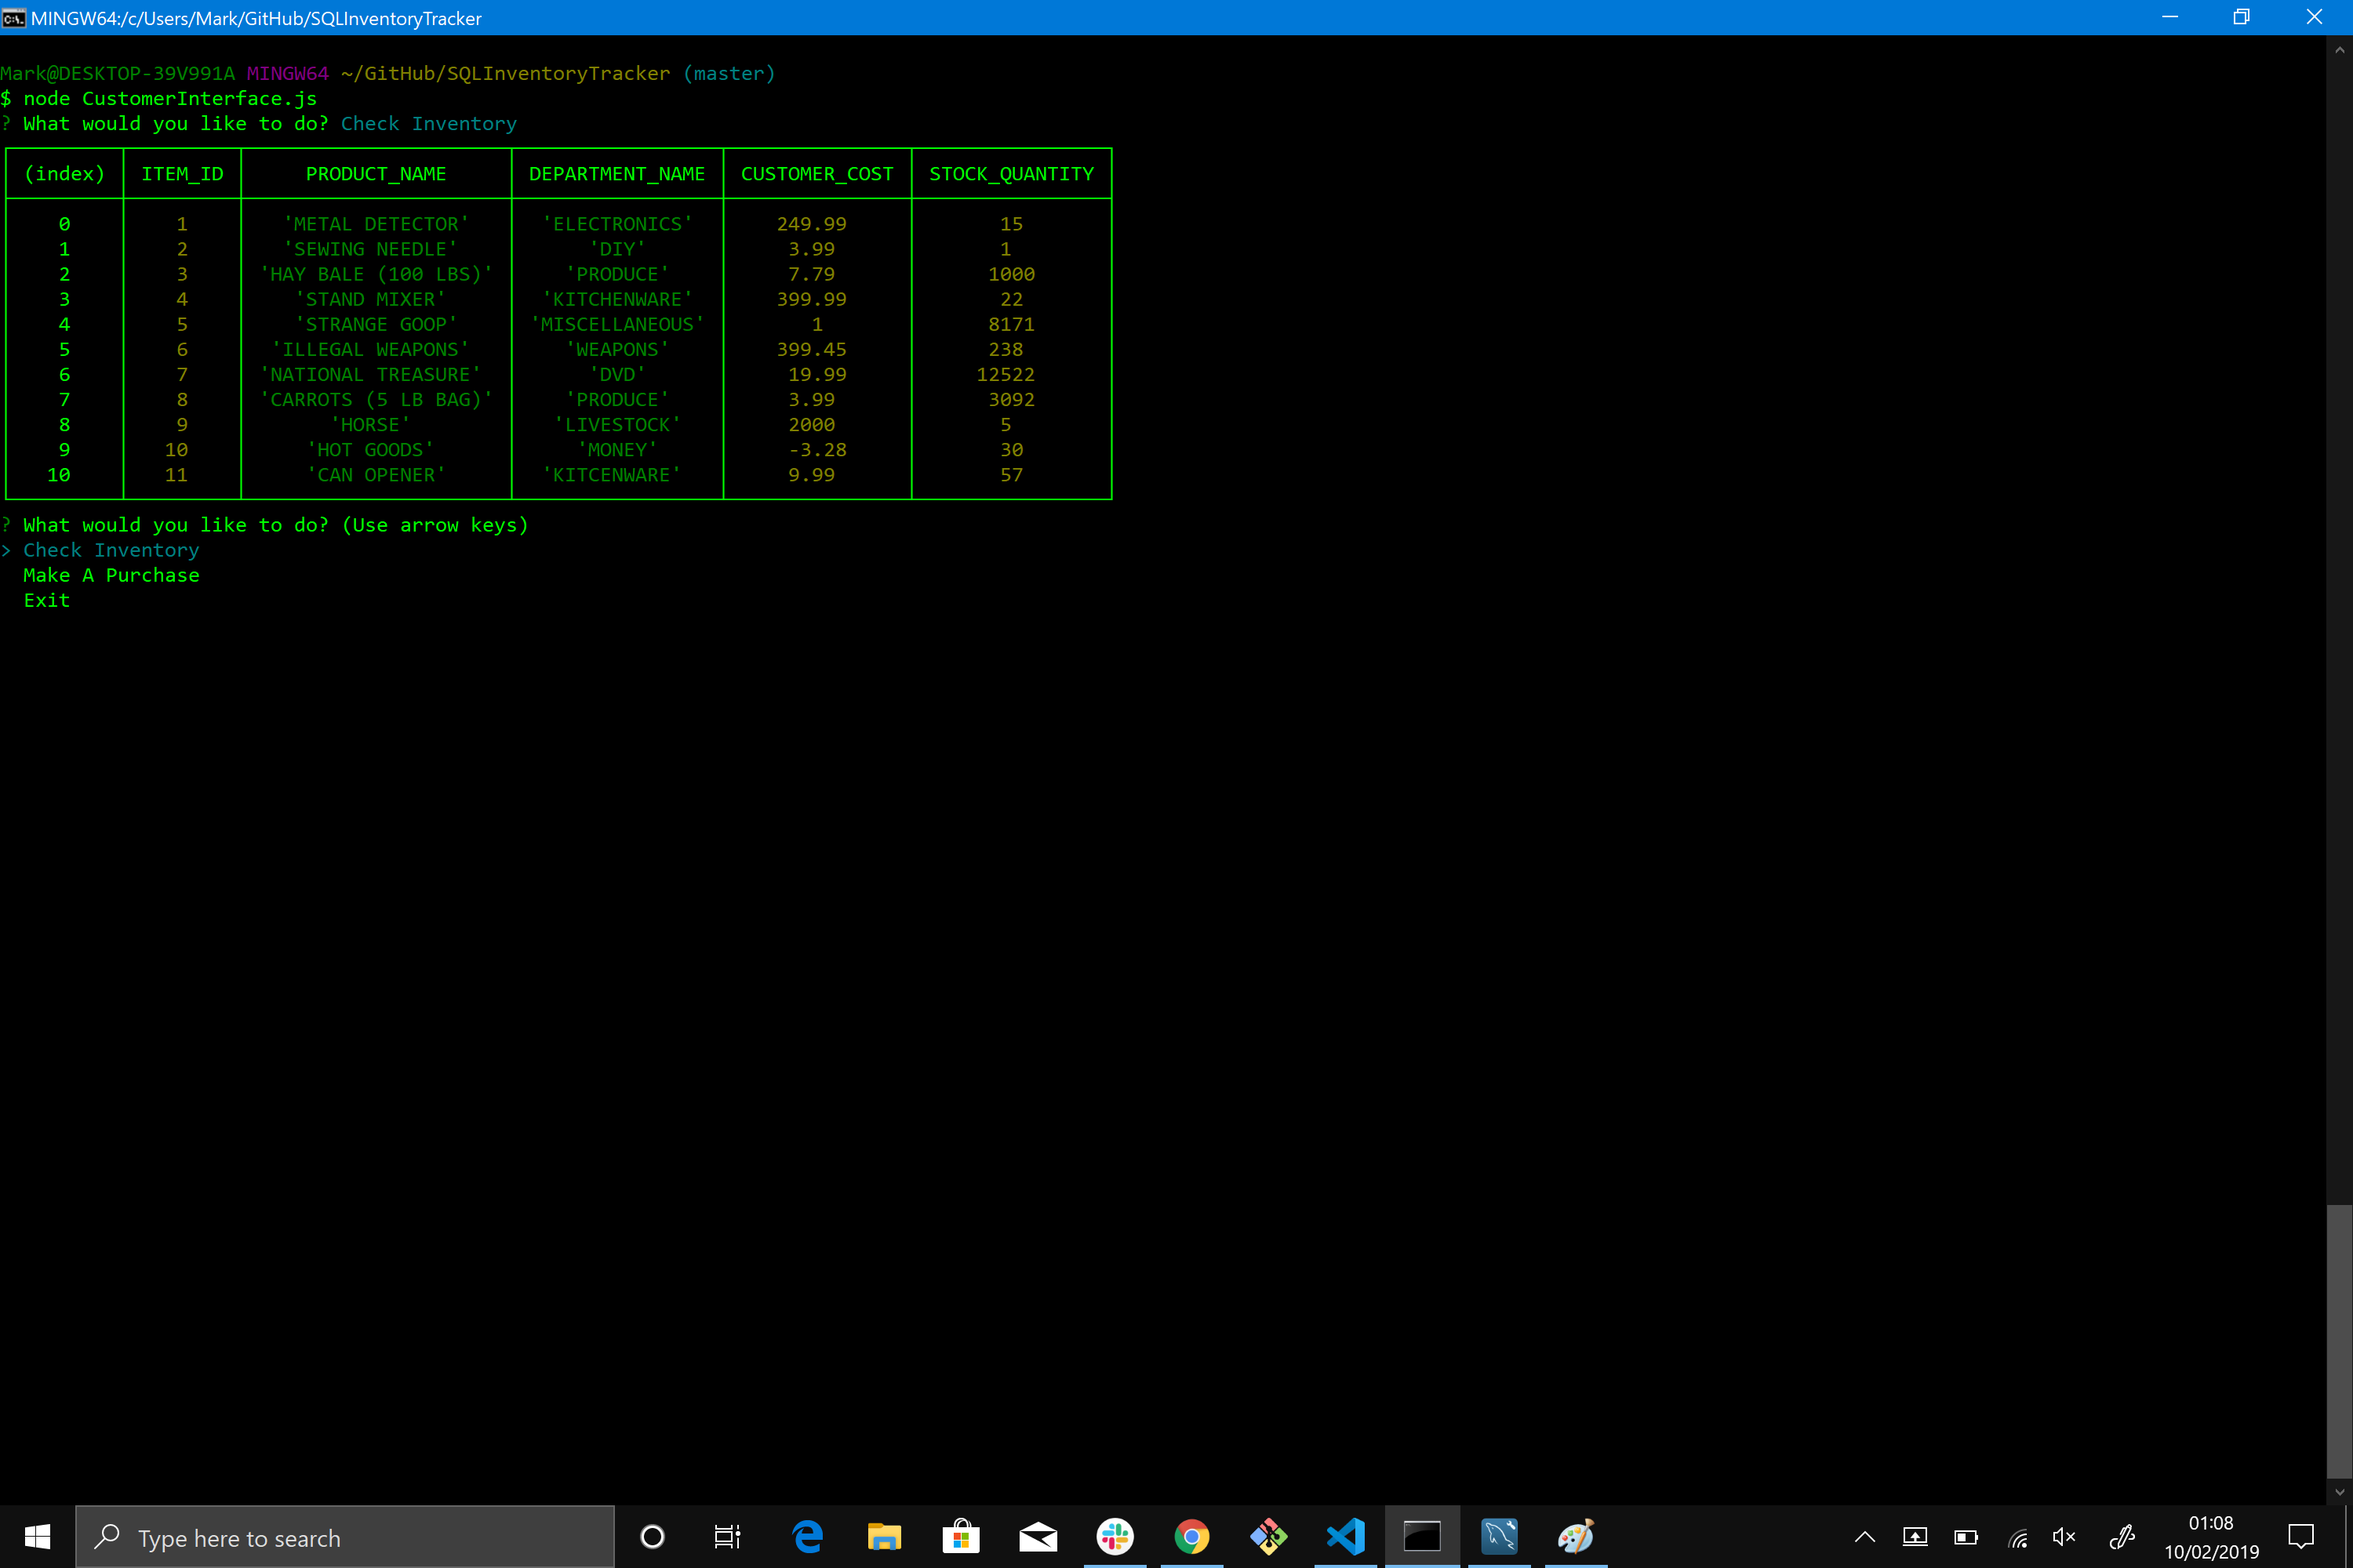
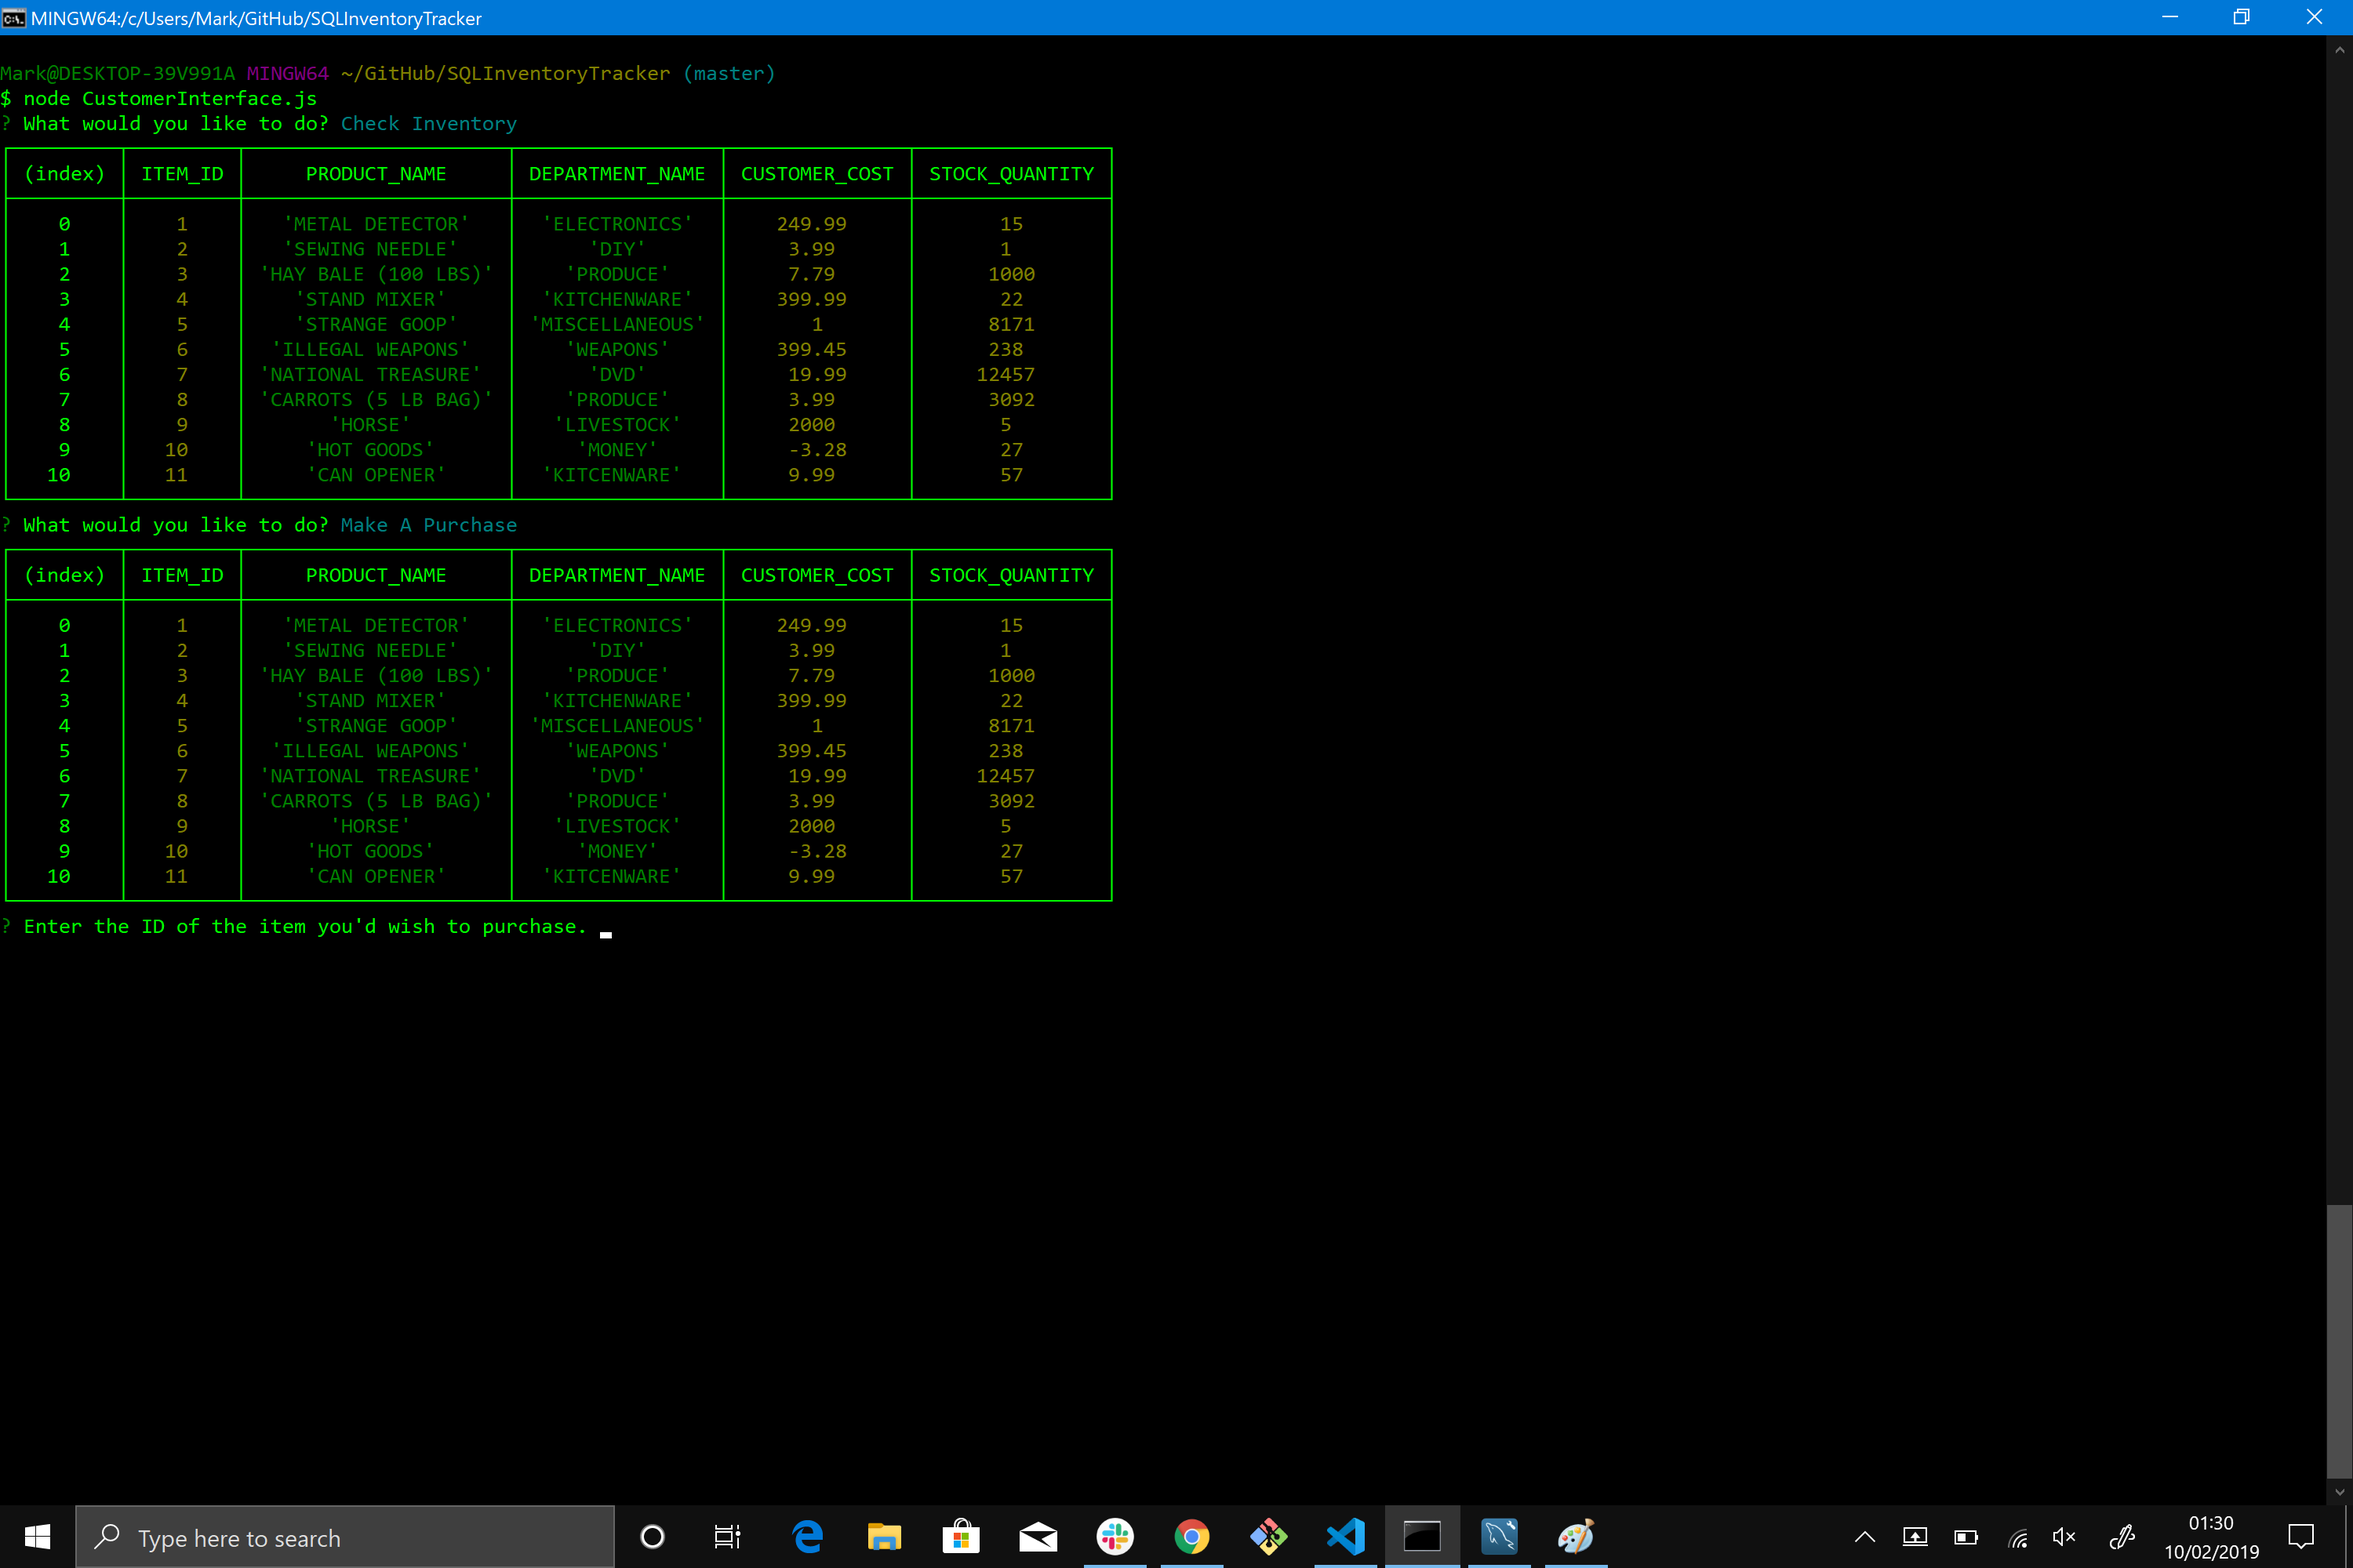
Updated readme.md

diff --git a/CustomerInterface.js b/CustomerInterface.js
@@ -4,7 +4,7 @@ var connection = mysql.createConnection({
     host : "localhost",
     port: 3306,
     user: "root",
-    password: "TopSecretPasswordThatI'veEnteredInHereInsteadOfMyRealPassword",
+    password: "Sorry, my password is hidden from prying eyes. Unless you use version control to look back at my previous iterations.",
     database: "bamazon"
 });
 

diff --git a/README.md b/README.md
@@ -1,2 +1,26 @@
 # SQL Inventory Tracker
-SQL project to make an SQL based Amazon knockoff. 
+
+This application utilizes Node along with mySQL and Inquirer to make a responsive database that you can purchase items from. 
+
+## The app and how it works
+
+When the applicaiton is launched it utlizes node inquirer to ask you what you would like to do. 
+![Starting Prompt](https://github.com/LilGherkin/SQLInventoryTracker/blob/master/Screenshots/1.png)
+You can then select from the 3 options above
+* Check Inventory
+* Make a Purchase
+* Exit the system
+
+## Inventory Check
+The inventory gives you a current readout of what is available and then sends you back into the initial prompter. 
+![Inventory Check](https://github.com/LilGherkin/SQLInventoryTracker/blob/master/Screenshots/2.png)
+
+## Make a Purchase
+After entering the make a purchase option you are then prompted to select an item form the list using it's ID. Then, select the amount of units you would like to purchase. After entering in that information the applicaiton will tell you how many units of that item you bought, and the total cost of the purchase as a whole. The database will then update for the new adjusted quantity. 
+![Inventory Check](https://github.com/LilGherkin/SQLInventoryTracker/blob/master/Screenshots/3.png)
+
+
+## Exit
+As it says on the can.
+![Exit](https://github.com/LilGherkin/SQLInventoryTracker/blob/master/Screenshots/4.png)
+
